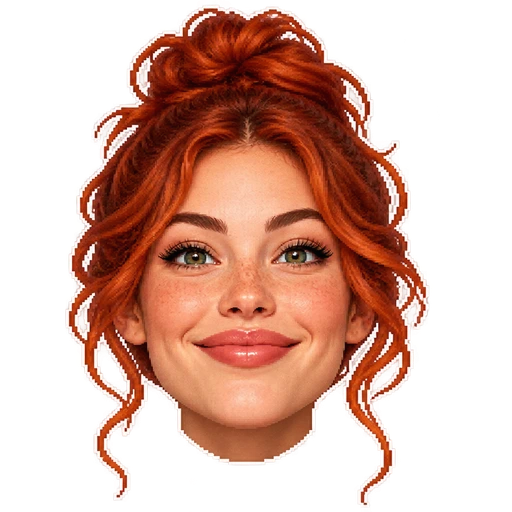
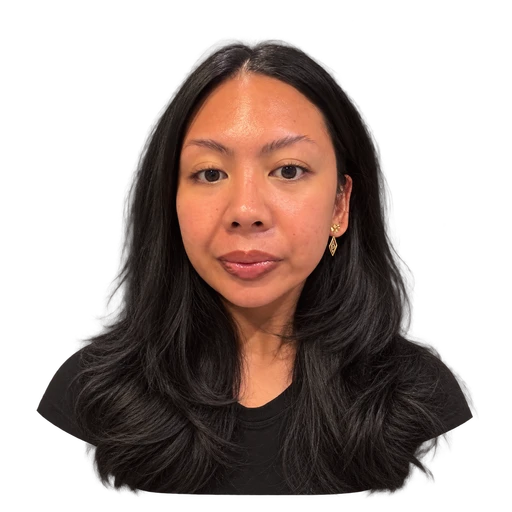
Game updae to change placeholder images and sound effects

diff --git a/src/lib/catch-sound.js b/src/lib/catch-sound.js
@@ -1,0 +1,3 @@
+export function chooseCatchSound(random = Math.random) {
+  return random() < 0.5 ? "yummy" : "ugh";
+}
